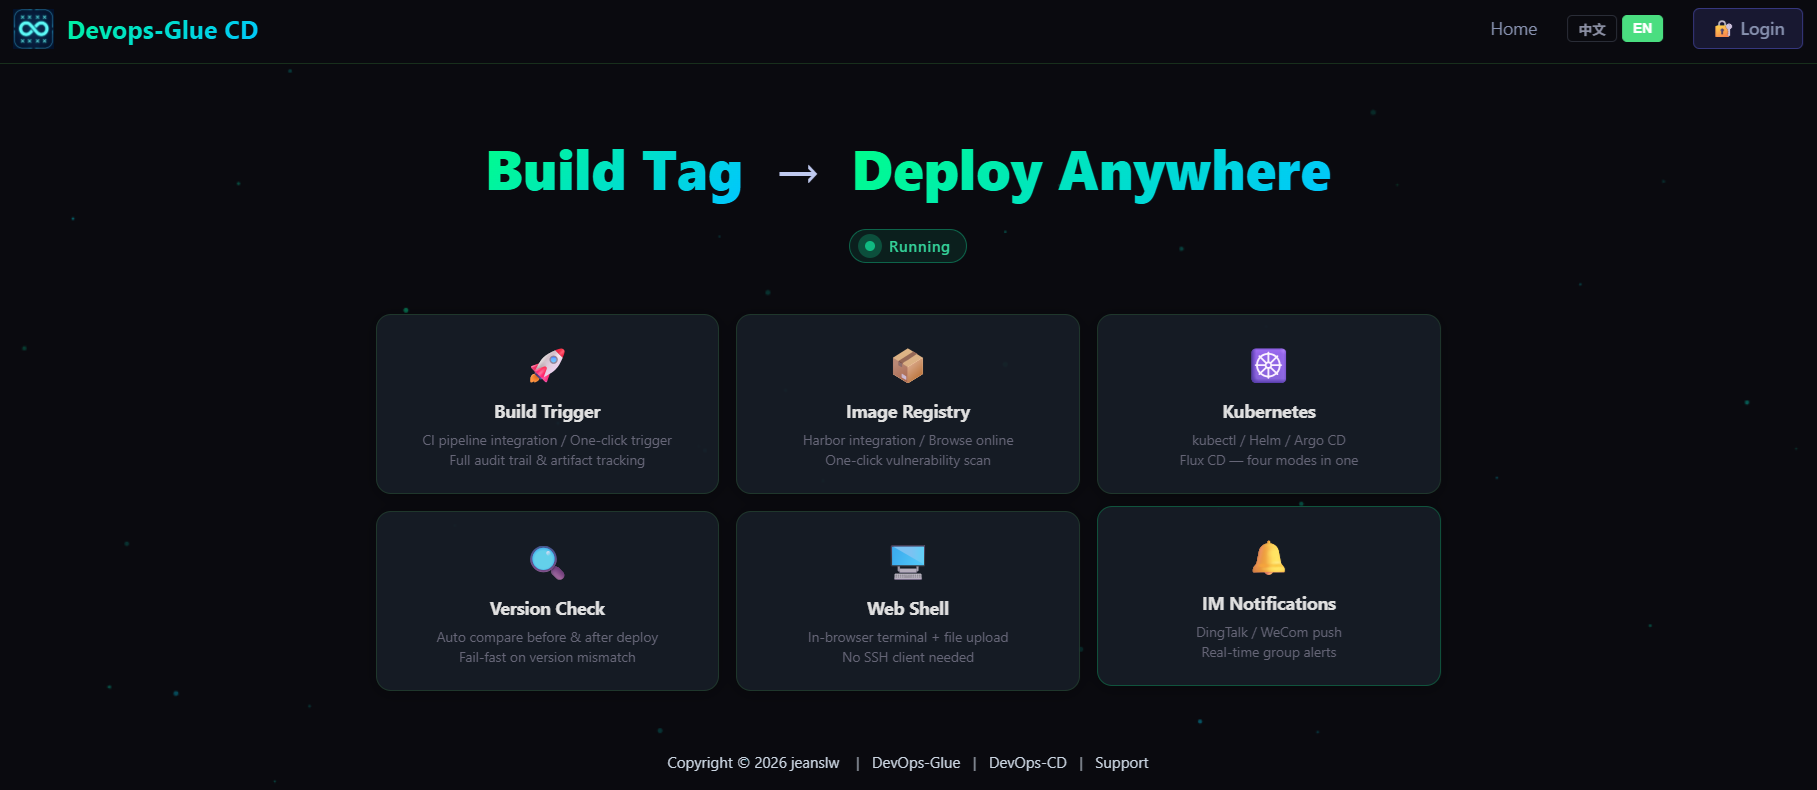
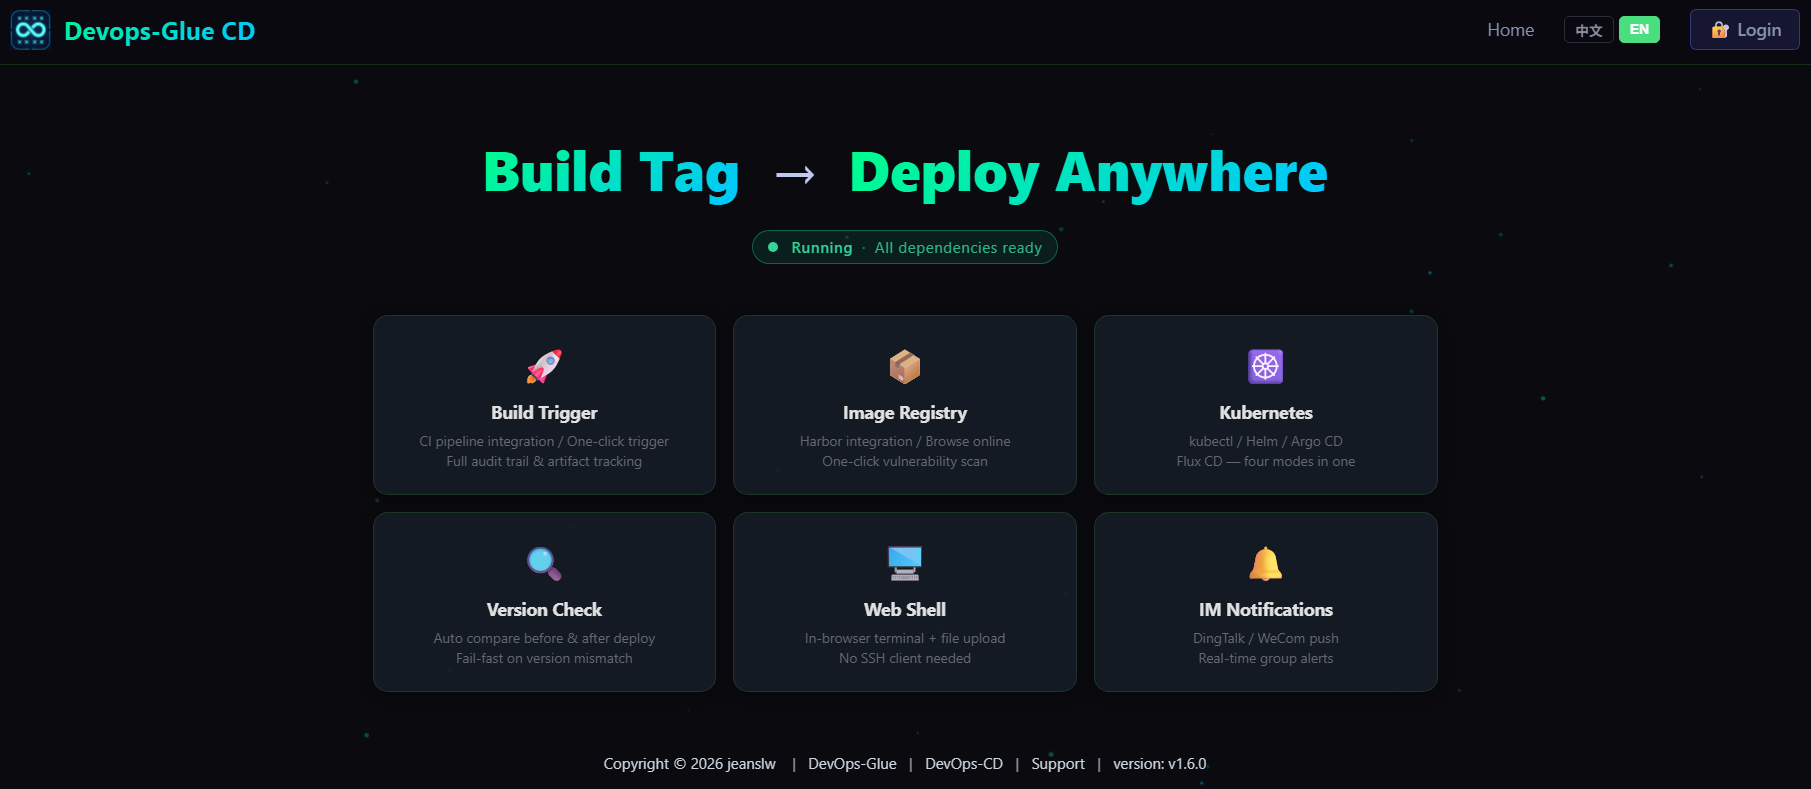
docs：修复docker-compose目录挂载可能失败

diff --git a/SECURITY.md b/SECURITY.md
@@ -7,9 +7,9 @@ As this project is maintained by an individual with limited resources, security 
 | Version | Supported |
 | ------- | --------- |
 | **Devops-Glue** | |
+| v2.10.x | ✅ Active support — will receive security updates |
 | v2.9.x | ✅ Active support — will receive security updates |
-| v2.8.9 | ✅ Active support — will receive security updates |
-| v2.8.8 and below | ❌ No longer supported — please upgrade to the latest version |
+| v2.8.9 and below | ❌ No longer supported — please upgrade to the latest version |
 | **Devops-CD** | |
 | CD v1.6.x | ✅ Active support — will receive security updates |
 | CD v1.5.7 | ✅ Active support — will receive security updates |

diff --git a/SECURITY_ZH-CN.md b/SECURITY_ZH-CN.md
@@ -7,9 +7,9 @@
 | 版本 | 支持情况 |
 | ---- | -------- |
 | **Devops-Glue** | |
-| v2.9.x | ✅ 当前支持，将接收安全更新 |
-| v2.8.9 | ✅ 当前支持，将接收安全更新 |
-| v2.8.8 及更低版本 | ❌ 不再支持，请升级到最新版本 |
+| v2.10.x | ✅ 当前支持，将接收安全更新 |
+| v2.9.0| ✅ 当前支持，将接收安全更新 |
+| v2.8.9 及更低版本 | ❌ 不再支持，请升级到最新版本 |
 | **Devops-CD** | |
 | CD v1.6.x | ✅ 当前支持，将接收安全更新 |
 | CD v1.5.7 | ✅ 当前支持，将接收安全更新 |
